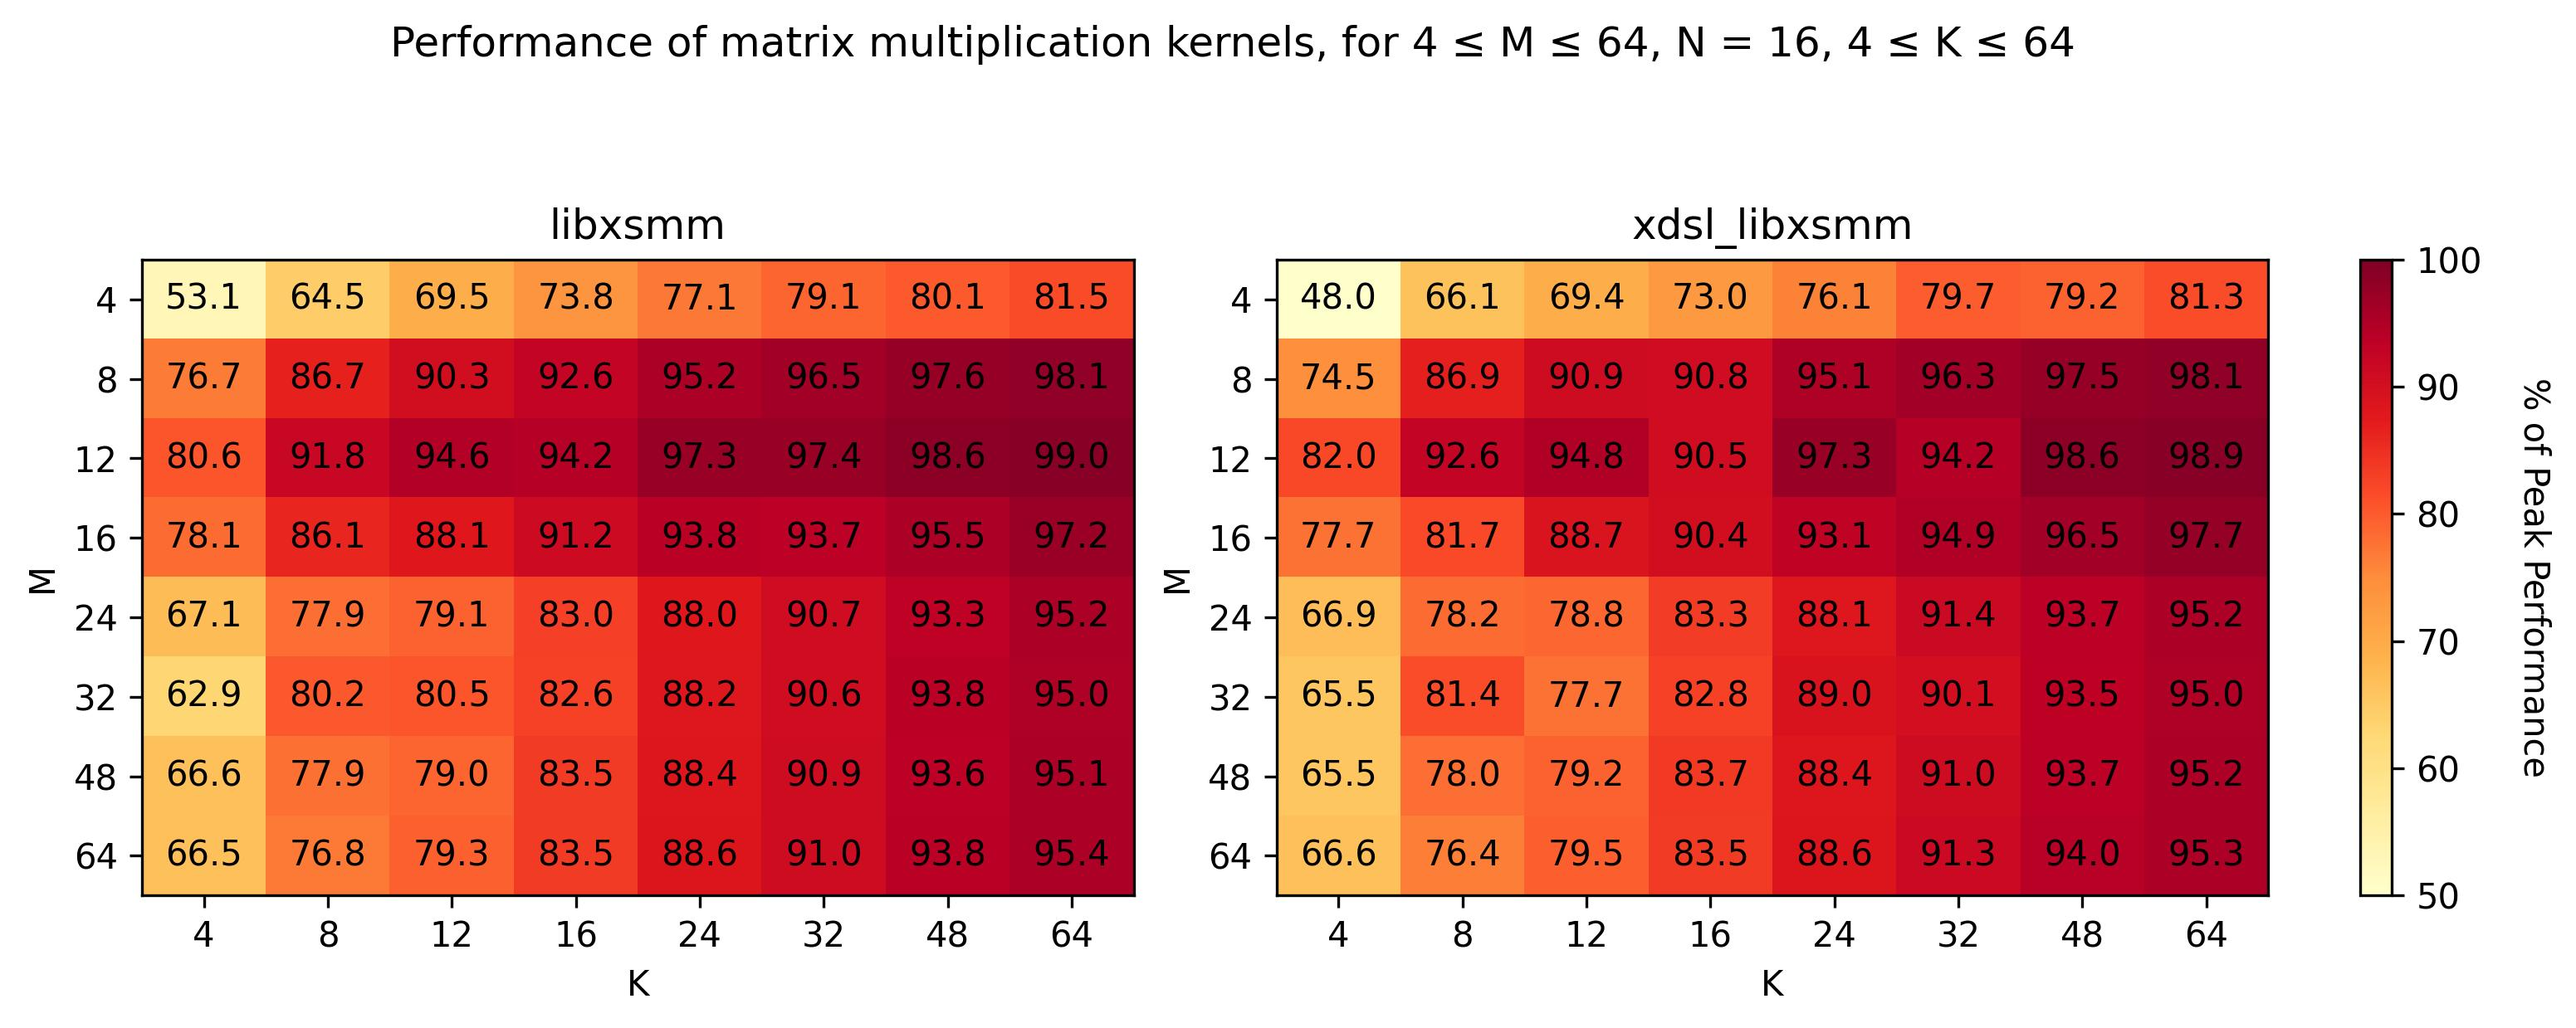
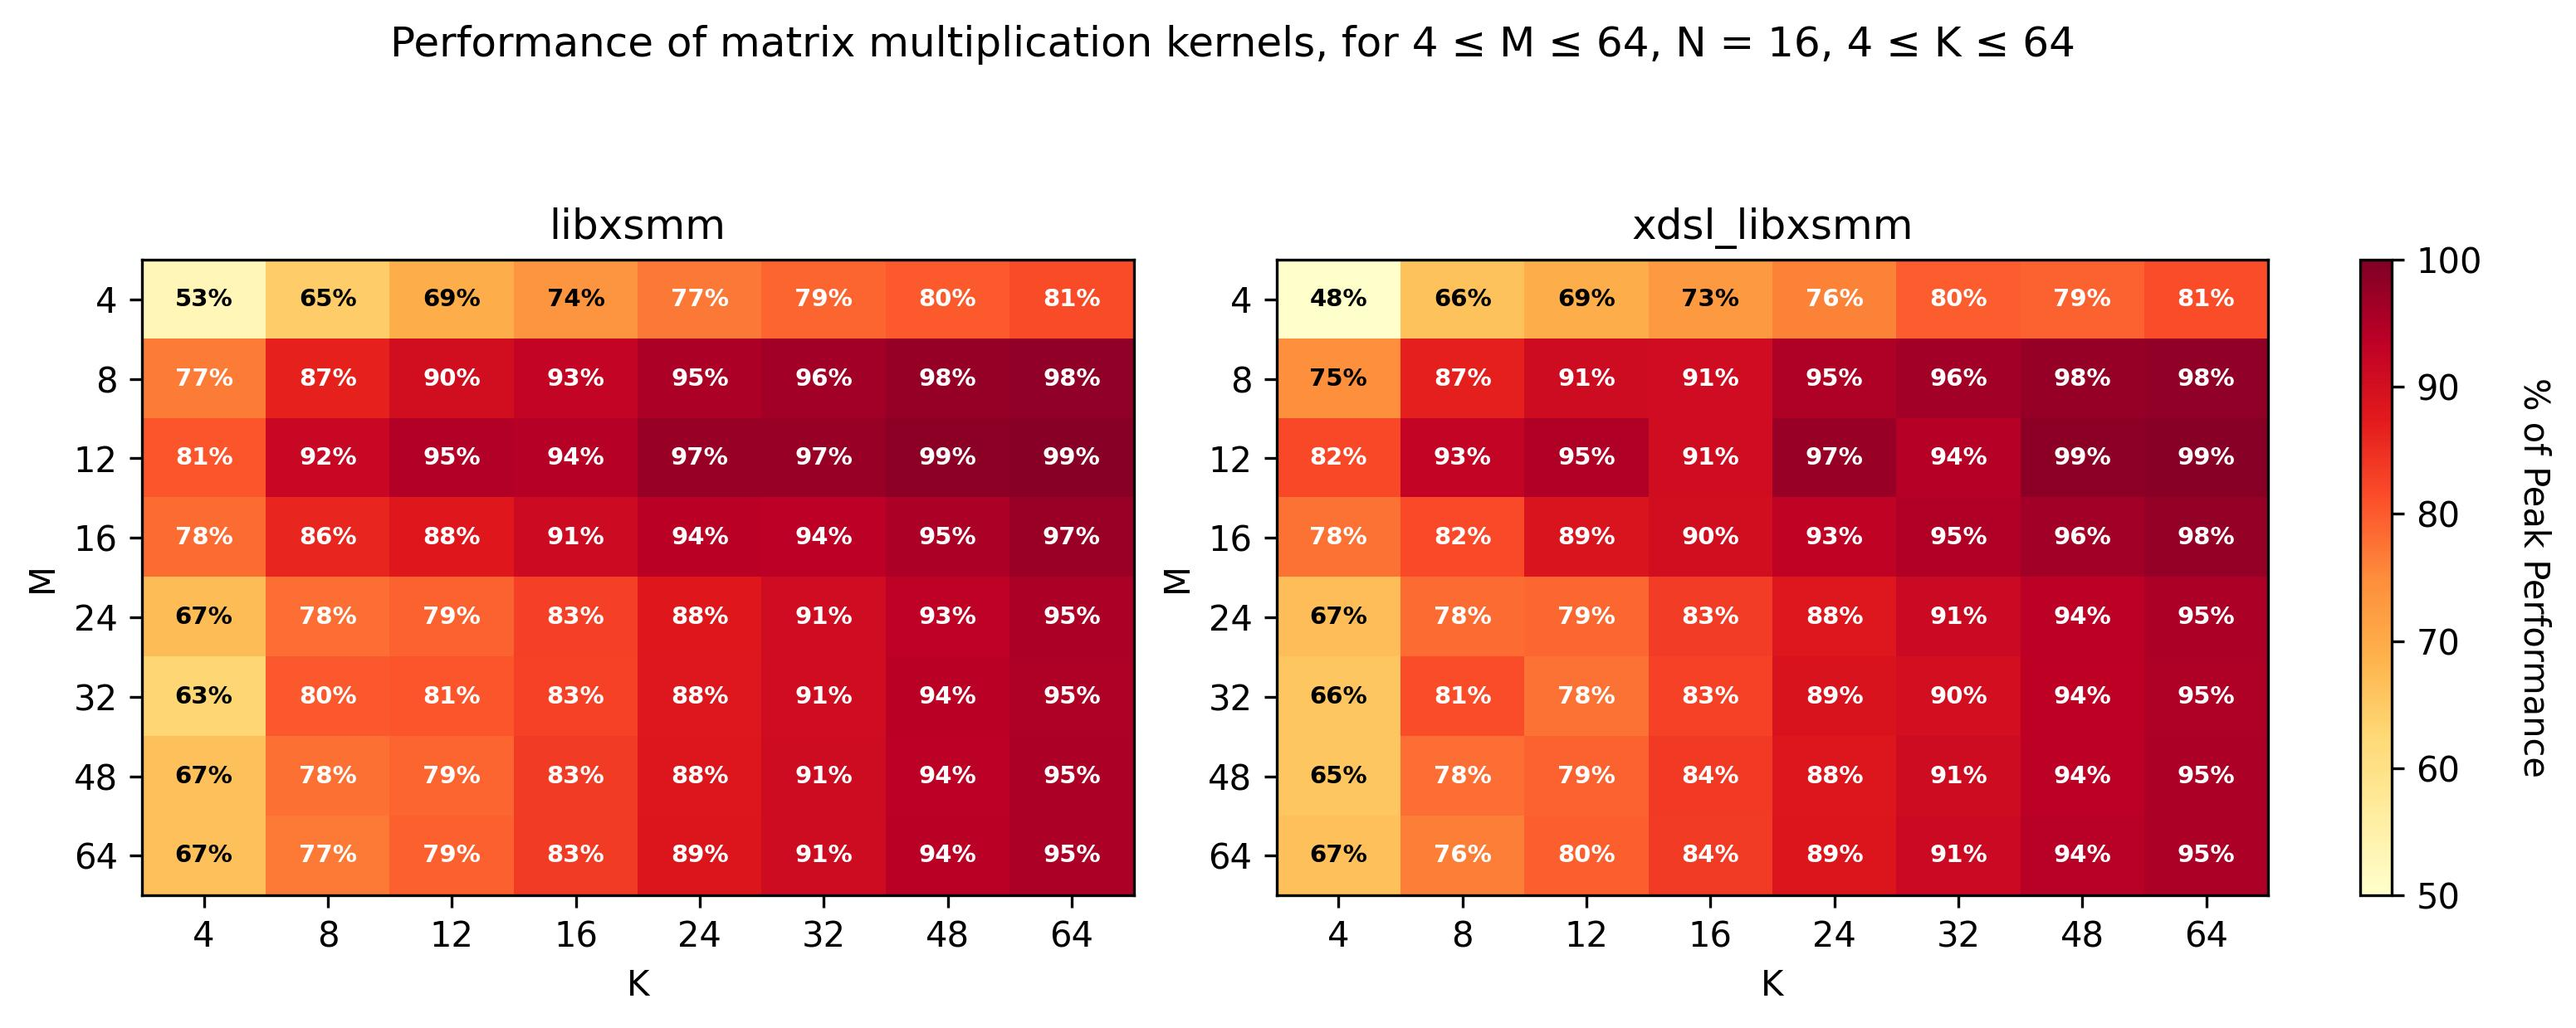
high contrast in heatmap

diff --git a/src/autotuner/plot_heatmap.py b/src/autotuner/plot_heatmap.py
@@ -37,18 +37,23 @@ def plot_axis_heatmap(valid_data: pd.DataFrame, ax: Subplot, title: str):
     ax.set_xticklabels(heatmap_data.columns)
     ax.set_yticklabels(heatmap_data.index)
 
+    # Add high-contrast text color inside cells
     for i in range(len(heatmap_data.index)):
-         for j in range(len(heatmap_data.columns)):
-             val = heatmap_data.iloc[i, j]
-             if pd.notna(val):
-                 ax.text(
-                     j,
-                     i,
-                     f"{val:.1f}",
-                     ha="center",
-                     va="center",
-                     color="black",
-                 )
+        for j in range(len(heatmap_data.columns)):
+            val = heatmap_data.iloc[i, j]
+            if pd.notna(val):
+                text_color = "white" if val >= 75.0 else "black"
+                
+                ax.text(
+                    j,
+                    i,
+                    f"{val:.0f}%",
+                    ha="center",
+                    va="center",
+                    color=text_color,
+                    fontsize=7,
+                    fontweight="bold"
+                )
 
     ax.set_xlabel("K" if col_dim == "K" else "N")
     ax.set_ylabel("M")
